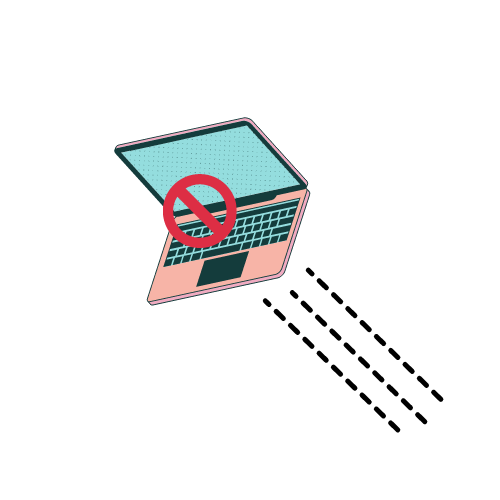
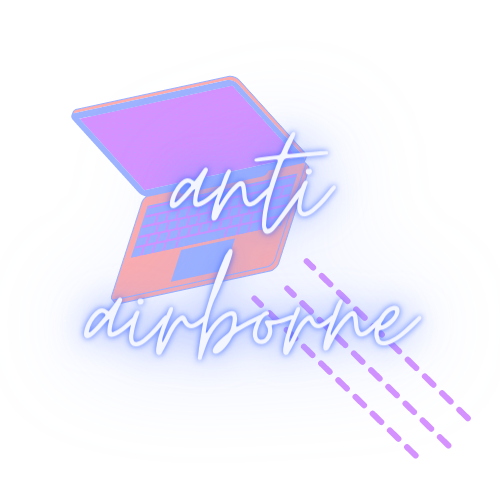
Updated readme.

diff --git a/README.md b/README.md
@@ -10,11 +10,13 @@
 <hr>
 <h3 align="center">⭐ Applications ⭐</h3>
 <div align="center">  
-  <a href="https://github.com/enbytedev/Filing-Saucer"><img src="https://raw.githubusercontent.com/enbytedev/Filing-Saucer/main/ICON.png" height="150px" /></a>
-  <a href="https://github.com/enbytedev/Anti-Airborne"><img src="https://raw.githubusercontent.com/enbytedev/Anti-Airborne/main/PROJECT.png" height="150px" /></a>
-   <a href="https://github.com/enbytedev/YourBot"><img src="https://raw.githubusercontent.com/enbytedev/YourBot/master/PROJECT.png" height="150px" /></a>
+  <a href="https://github.com/enbytedev/Filing-Saucer"><img src="https://raw.githubusercontent.com/enbytedev/enbytedev/main/assets/projects/filingsaucer.png" height="150px" /></a>
 </div>
-<div align="center"><b>Install Script</b> -- <code>bash <(curl -s https://install.enbyte.dev/)</code></div>
+<h3 align="center">🕰 Legacy Projects 🕰</h3>
+<div align="center">  
+  <a href="https://github.com/enbytedev/Anti-Airborne"><img src="https://raw.githubusercontent.com/enbytedev/enbytedev/main/assets/projects/antiairborne-legacy.png" height="150px" /></a>
+  <a href="https://github.com/enbytedev/YourBot"><img src="https://raw.githubusercontent.com/enbytedev/enbytedev/main/assets/projects/yourbot.png" height="150px" /></a>
+</div>
 <hr>
 <h3 align="center"><b>🤔 Familiarities 🤔</b>
   <div align="center">    
